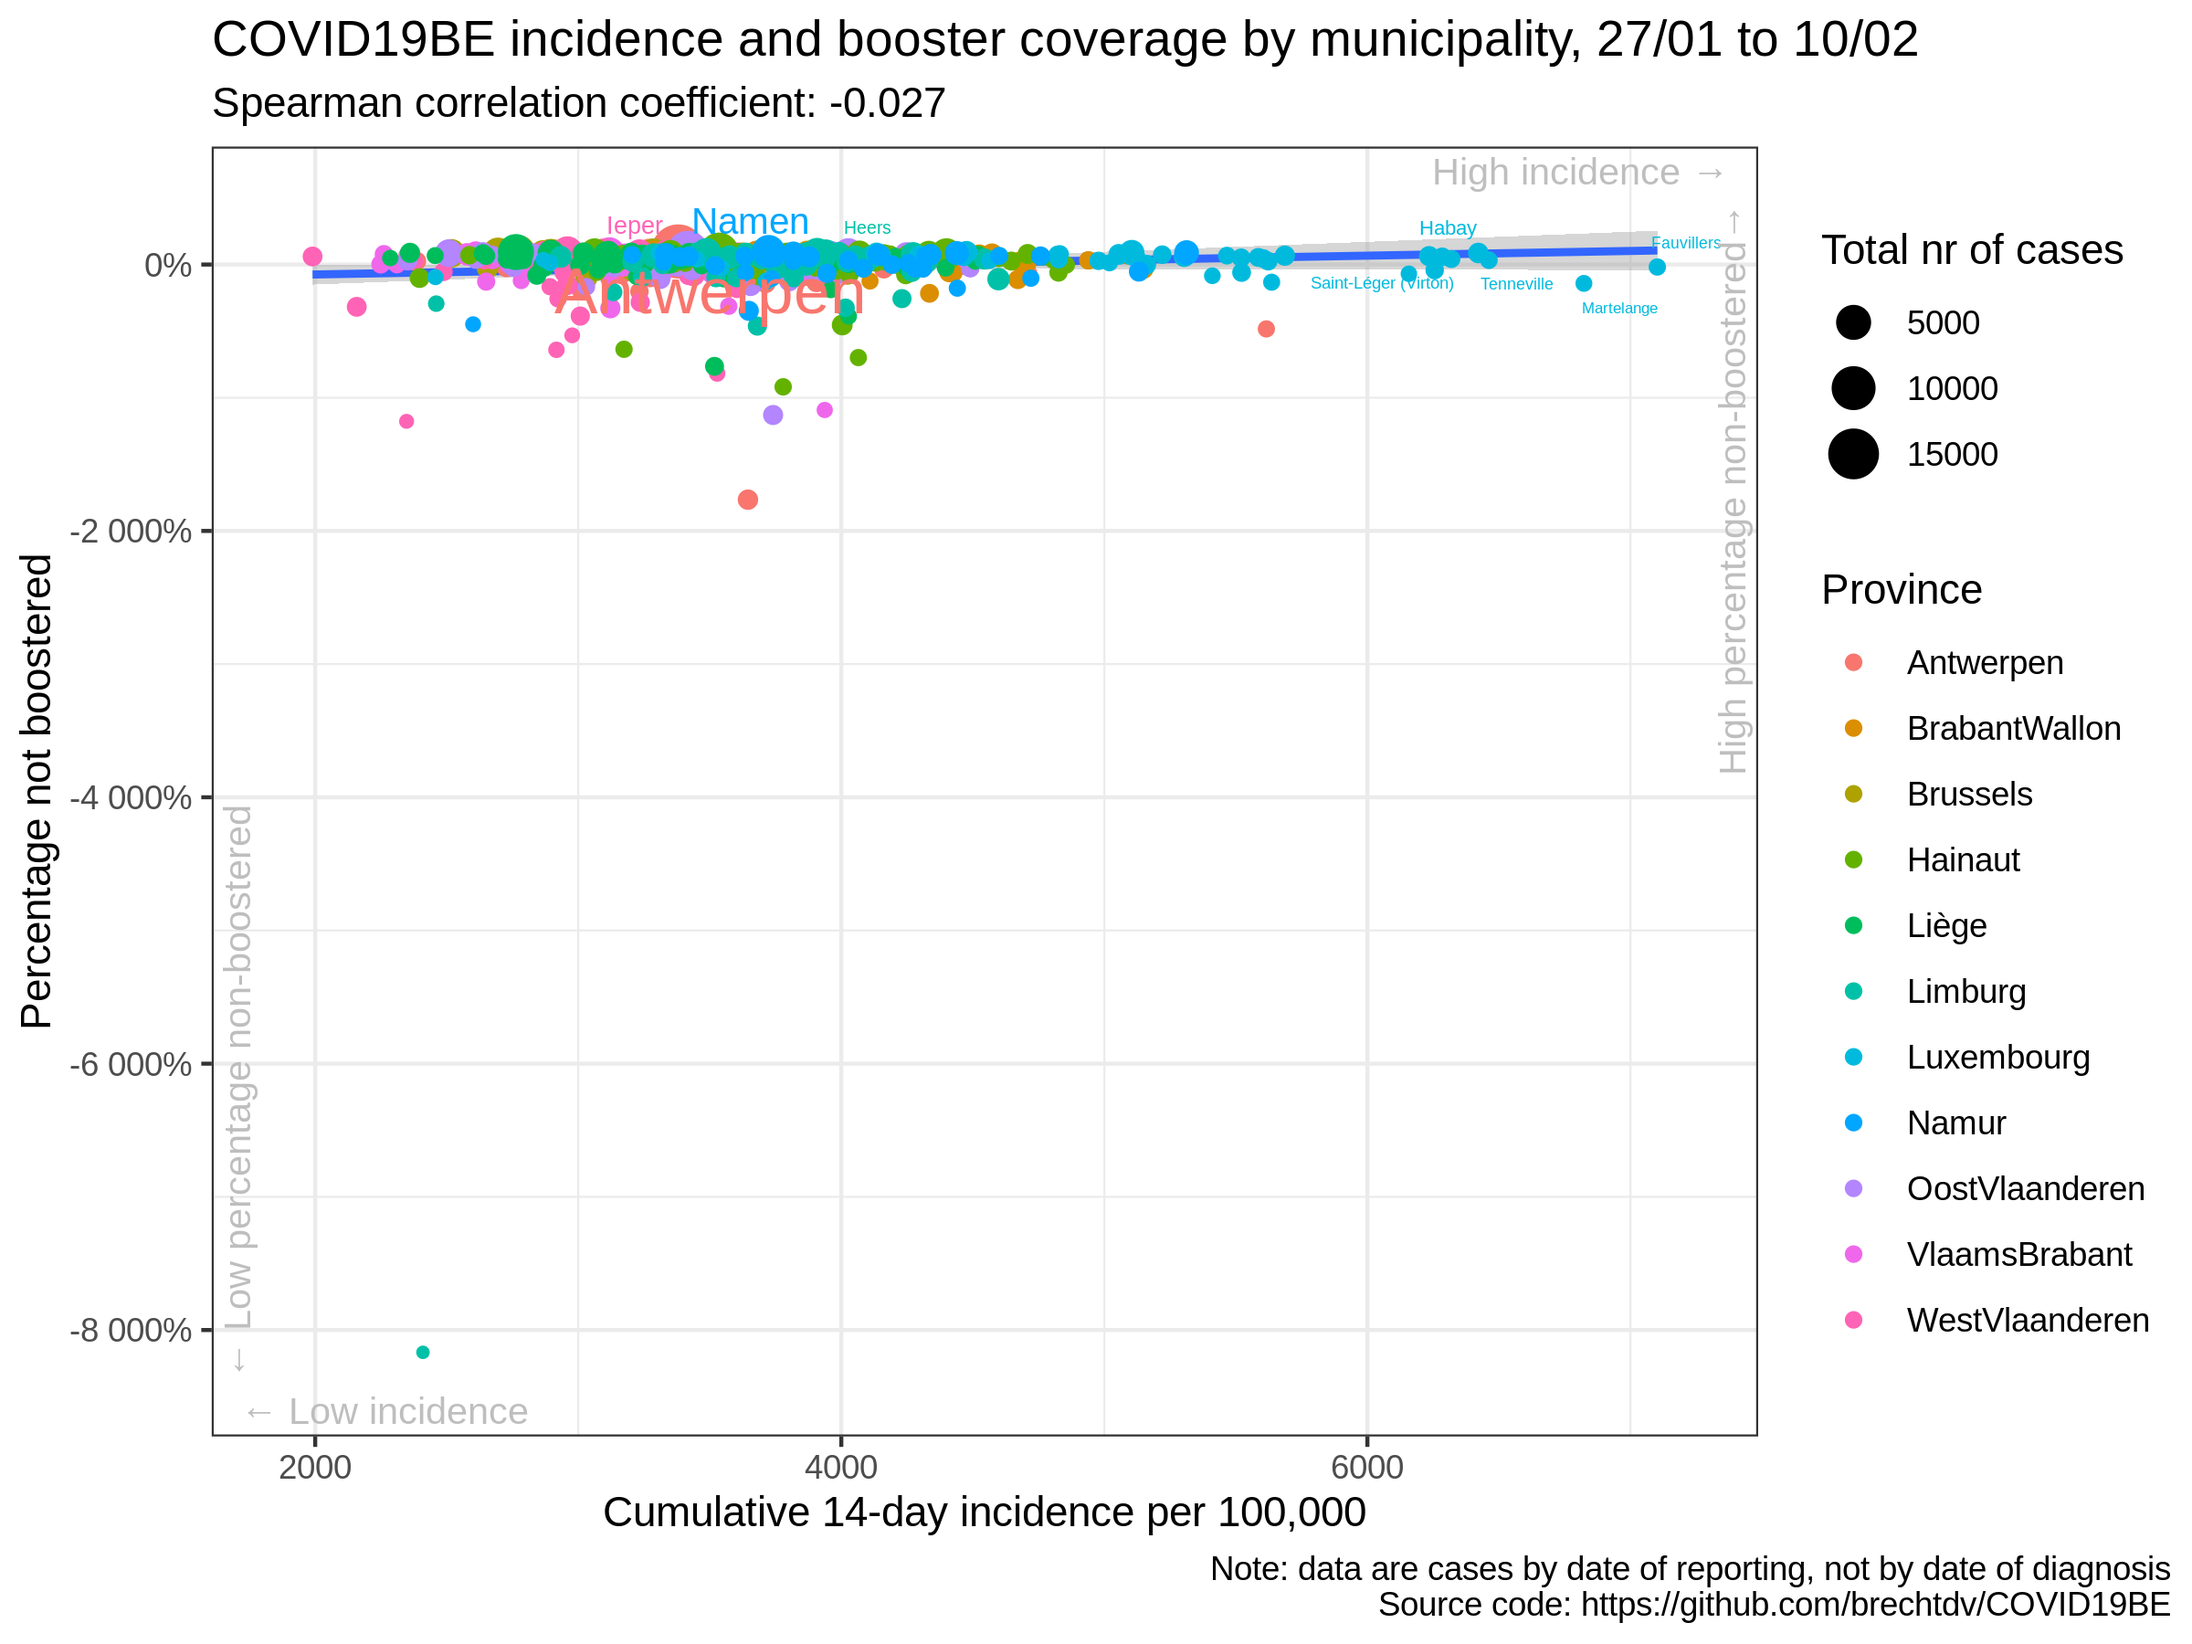
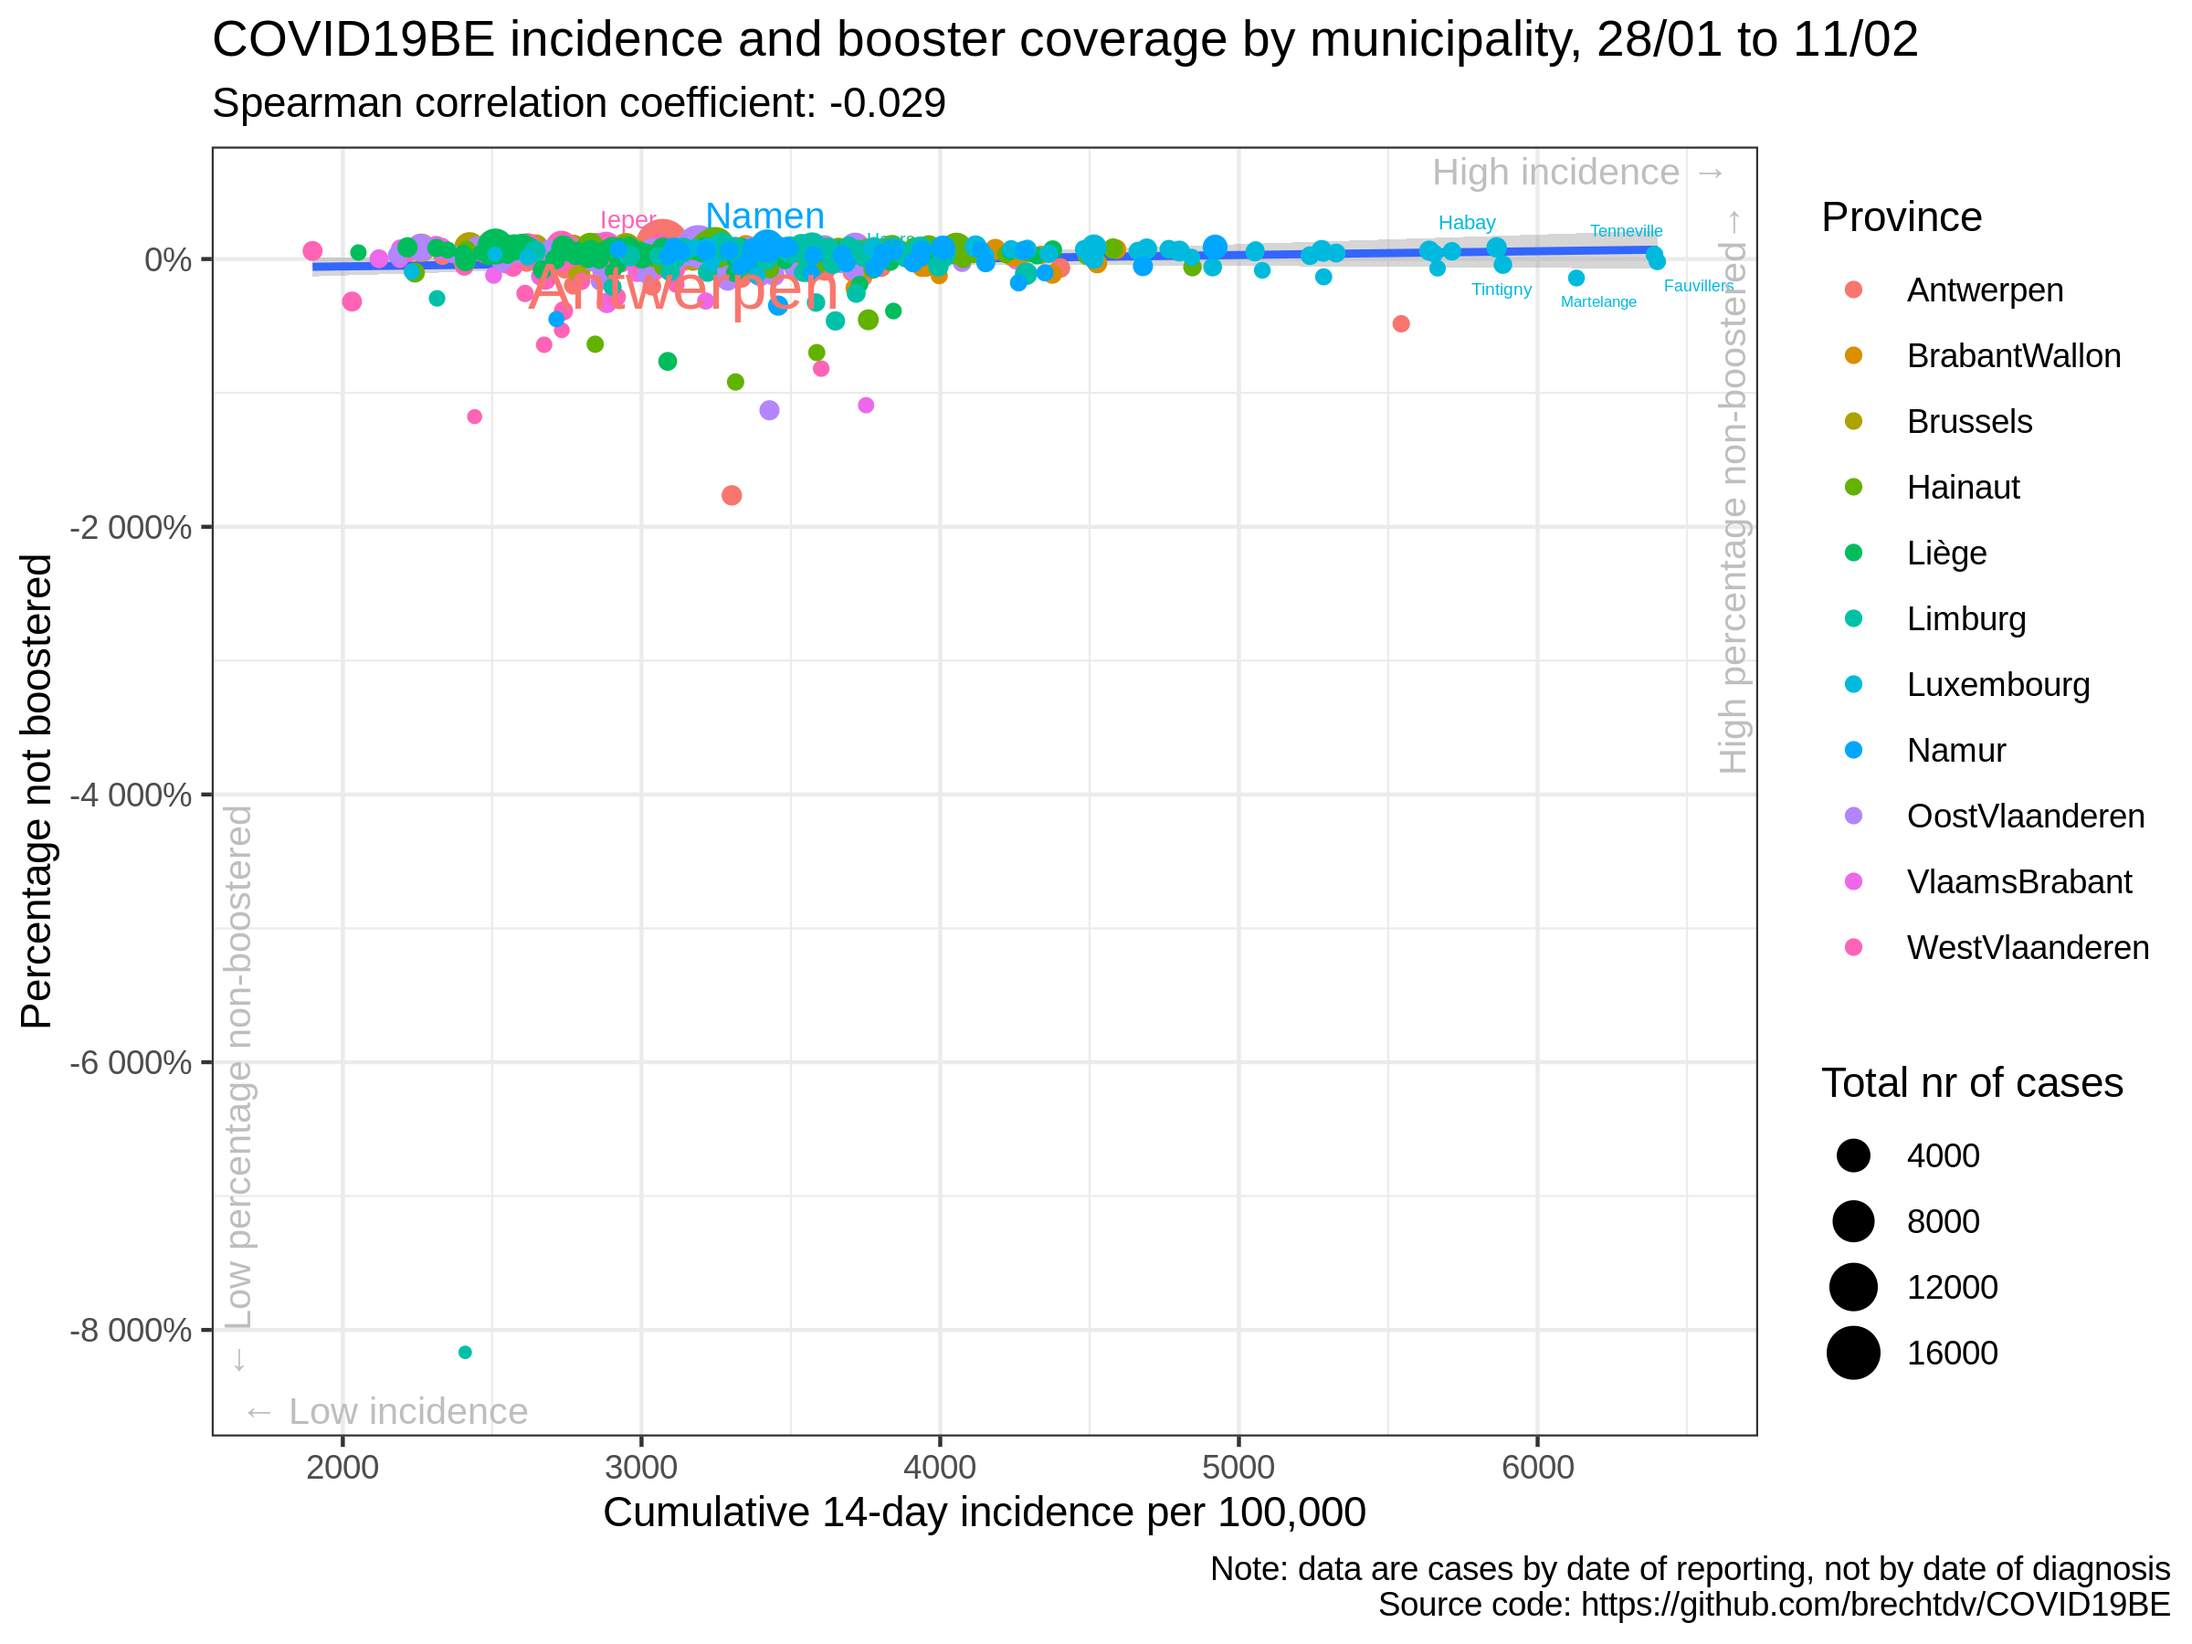
update situation

diff --git a/vaccination/README.md b/vaccination/README.md
@@ -17,35 +17,35 @@
 
 |                | estimate.rho | p.value |
 | :------------- | -----------: | ------: |
-| Antwerpen      |      \-0.097 |   0.426 |
-| BrabantWallon  |      \-0.430 |   0.026 |
-| Brussels       |      \-0.223 |   0.358 |
-| Hainaut        |      \-0.068 |   0.578 |
-| Liège          |      \-0.258 |   0.018 |
-| Limburg        |        0.134 |   0.398 |
-| Luxembourg     |      \-0.181 |   0.239 |
-| Namur          |        0.006 |   0.973 |
-| OostVlaanderen |      \-0.020 |   0.878 |
-| VlaamsBrabant  |      \-0.151 |   0.229 |
-| WestVlaanderen |        0.079 |   0.535 |
-| Belgium        |      \-0.041 |   0.326 |
+| Antwerpen      |      \-0.101 |   0.408 |
+| BrabantWallon  |      \-0.469 |   0.014 |
+| Brussels       |      \-0.302 |   0.209 |
+| Hainaut        |      \-0.001 |   0.993 |
+| Liège          |      \-0.210 |   0.056 |
+| Limburg        |        0.070 |   0.659 |
+| Luxembourg     |      \-0.203 |   0.186 |
+| Namur          |      \-0.102 |   0.546 |
+| OostVlaanderen |      \-0.017 |   0.899 |
+| VlaamsBrabant  |      \-0.188 |   0.135 |
+| WestVlaanderen |        0.086 |   0.497 |
+| Belgium        |      \-0.042 |   0.307 |
 
 ### Correlation cumulative incidence vs booster rate
 
 |                | estimate.rho | p.value |
 | :------------- | -----------: | ------: |
-| Antwerpen      |      \-0.096 |   0.430 |
-| BrabantWallon  |      \-0.433 |   0.025 |
-| Brussels       |      \-0.251 |   0.299 |
-| Hainaut        |      \-0.061 |   0.616 |
-| Liège          |      \-0.263 |   0.016 |
-| Limburg        |        0.128 |   0.417 |
-| Luxembourg     |      \-0.184 |   0.230 |
-| Namur          |        0.016 |   0.925 |
-| OostVlaanderen |      \-0.013 |   0.919 |
-| VlaamsBrabant  |      \-0.180 |   0.151 |
-| WestVlaanderen |        0.084 |   0.509 |
-| Belgium        |      \-0.027 |   0.512 |
+| Antwerpen      |      \-0.101 |   0.409 |
+| BrabantWallon  |      \-0.470 |   0.014 |
+| Brussels       |      \-0.319 |   0.182 |
+| Hainaut        |        0.004 |   0.973 |
+| Liège          |      \-0.215 |   0.050 |
+| Limburg        |        0.064 |   0.687 |
+| Luxembourg     |      \-0.207 |   0.178 |
+| Namur          |      \-0.087 |   0.608 |
+| OostVlaanderen |      \-0.010 |   0.940 |
+| VlaamsBrabant  |      \-0.214 |   0.087 |
+| WestVlaanderen |        0.091 |   0.473 |
+| Belgium        |      \-0.029 |   0.486 |
 
 ### Data source
 
